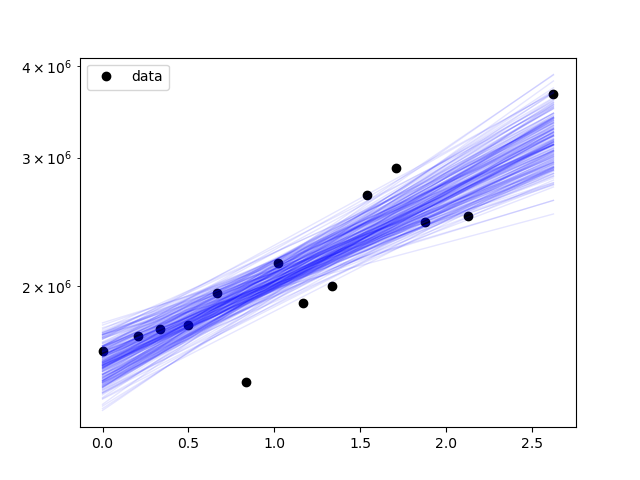
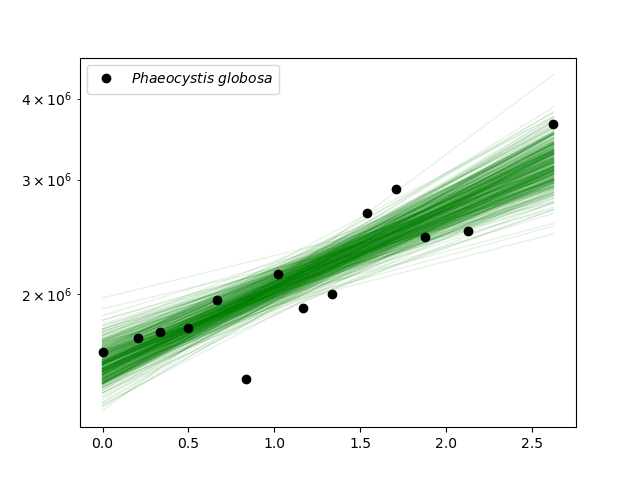
fig2 done

diff --git a/case_study_1/python/src/main_text_fig2.py b/case_study_1/python/src/main_text_fig2.py
@@ -1,0 +1,56 @@
+import malthusian_plotting as gp
+import malthusian_death_plotting as dp
+import matplotlib.pyplot as plt
+import arviz as az
+
+################################
+# load data and setup figs
+################################
+
+# setup figure
+f,ax = plt.subplots(2,2,figsize=[10,10])
+
+ax = ax.flatten()
+ax[0].set_xlabel('Time (days)')
+ax[1].set_xlabel('Time (days)')
+ax[2].set_xlabel('Growth rate (day$^{-1}$)')
+ax[3].set_xlabel('Growth rate (day$^{-1}$)')
+ax[0].set_ylabel('Cells (ml$^{-1}$')
+ax[1].set_ylabel('Cells (ml$^{-1}$')
+ax[2].set_ylabel('Probability density (day$^{-1}$)')
+ax[3].set_ylabel('Growth rate (day$^{-1}$)')
+
+################################
+# dynamics
+################################
+
+gp.plot_posterior_predictive(ax[0], gp.growth_trace, gp.time, gp.obs)
+dp.plot_posterior_predictive(ax[1], dp.death_trace, gp.time, gp.obs)
+
+################################
+# kernel plots
+################################
+
+gdf = az.extract(gp.growth_trace).to_dataframe()
+ddf = az.extract(dp.death_trace).to_dataframe()
+
+ax[2].hist(gdf.mum,alpha=0.5,density=True,color='r',label='Growth rate model')
+ax[2].hist(ddf.mum,alpha=0.5,density=True,color='g',label='(Growth-death) rate model')
+
+l2 = ax[2].legend()
+l2.draw_frame(False)
+
+################################
+# scatter plot
+################################
+
+ax[3].scatter(ddf.mum,ddf.delta)
+
+f.subplots_adjust(wspace=0.3,hspace=0.3)
+for (a,l) in zip(ax,'abcd'):
+    a.text(0.1,0.9,l,transform=a.transAxes)
+f.savefig('../figures/main_text_fig2',bbox_inches='tight',dpi=300)
+
+plt.close(f)
+
+

diff --git a/case_study_1/python/src/malthusian_death_plotting.py b/case_study_1/python/src/malthusian_death_plotting.py
@@ -42,19 +42,19 @@ plt.savefig('../figures/death_autocorrelation')
 
 # Plot the original data
 def plot_data(ax, time, obs, **kwargs):
-    ax.plot(time, obs, 'ko', label='data', **kwargs)
+    ax.plot(time, obs, 'ko', label=r'$Phaeocystis$ $globosa$',zorder=1, **kwargs)
 
 # Plot a single model realization
 def plot_model(ax, model_output, time, **kwargs):
     ax.plot(time, model_output, **kwargs)
 
 # Overlay posterior predictive simulations
-def plot_posterior_predictive(ax, trace, time, obs, num_samples=200, ode_solver=cells_ode, **kwargs):
+def plot_posterior_predictive(ax, trace, time, obs, num_samples=400, ode_solver=cells_ode, **kwargs):
     df = az.extract(trace, num_samples=num_samples).to_dataframe()
     plot_data(ax, time, obs, lw=0)
     for _, row in df.iterrows():
         model_output = odeint(ode_solver,[row["N0"]], time, args=([row["mum"],row["delta"]],))
-        plot_model(ax, model_output, time, lw=1, alpha=0.1, c='b', **kwargs)
+        plot_model(ax, model_output, time, lw=1, alpha=0.1, c='g',zorder=0, **kwargs)
     ax.legend()
     ax.semilogy()
 

diff --git a/case_study_1/python/src/malthusian_plotting.py b/case_study_1/python/src/malthusian_plotting.py
@@ -44,19 +44,19 @@ plt.savefig('../figures/growth_autocorrelation')
 
 # Plot the original data
 def plot_data(ax, time, obs, **kwargs):
-    ax.plot(time, obs, 'ko', label='data', **kwargs)
+    ax.plot(time, obs, 'ko', label=r'$Phaeocystis$ $globosa$',zorder=1, **kwargs)
 
 # Plot a single model realization
 def plot_model(ax, model_output, time, **kwargs):
     ax.plot(time, model_output, **kwargs)
 
 # Overlay posterior predictive simulations
-def plot_posterior_predictive(ax, trace, time, obs, num_samples=200, ode_solver=cells_ode, **kwargs):
+def plot_posterior_predictive(ax, trace, time, obs, num_samples=400, ode_solver=cells_ode, **kwargs):
     df = az.extract(trace, num_samples=num_samples).to_dataframe()
     plot_data(ax, time, obs, lw=0)
     for _, row in df.iterrows():
         model_output = odeint(ode_solver,[row["N0"]], time, args=([row["mum"]],))
-        plot_model(ax, model_output, time, lw=1, alpha=0.1, c='b', **kwargs)
+        plot_model(ax, model_output, time, lw=1, alpha=0.1, c='r',zorder=0, **kwargs)
     ax.legend()
     ax.semilogy()
 
